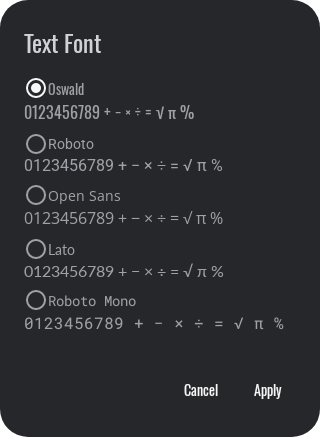
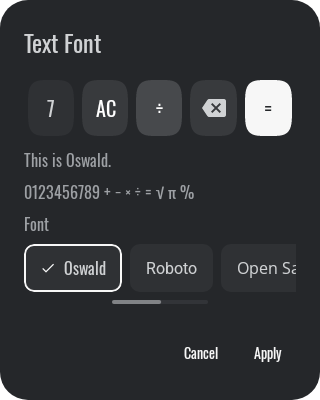
Add live font preview and horizontal font choices

diff --git a/app/src/test/java/net/smartlogic/unitconverter/theme/AppearanceUiTest.kt b/app/src/test/java/net/smartlogic/unitconverter/theme/AppearanceUiTest.kt
@@ -110,10 +110,7 @@ class AppearanceUiTest {
     }
     private fun assertSinglePreview(style: Appearance.Style, shape: Appearance.Shape) {
         compose.runOnIdle {
-            fun previews(v: android.view.View): List<KeypadPreviewView> =
-                if (v is KeypadPreviewView) listOf(v) else if (v is android.view.ViewGroup)
-                    (0 until v.childCount).flatMap { previews(v.getChildAt(it)) } else emptyList()
-            val preview = previews(ShadowDialog.getLatestDialog().window!!.decorView).single()
+            val preview = singlePreview()
             assertEquals(android.widget.LinearLayout.HORIZONTAL, preview.orientation)
             assertEquals(5, preview.childCount)
             for (i in 0 until preview.childCount) {
@@ -127,20 +124,20 @@ class AppearanceUiTest {
             assertEquals("=", (preview.getChildAt(4) as android.widget.TextView).text.toString())
         }
     }
-    @Test fun backAndOutsideTapDiscardDrafts() {
-        open("buttons")
-        tap(R.string.button_style_satin)
+    private fun singlePreview(): KeypadPreviewView {
+        fun previews(v: android.view.View): List<KeypadPreviewView> =
+            if (v is KeypadPreviewView) listOf(v) else if (v is android.view.ViewGroup)
+                (0 until v.childCount).flatMap { previews(v.getChildAt(it)) } else emptyList()
+        return previews(ShadowDialog.getLatestDialog().window!!.decorView).single()
+    }
+    private fun pressSystemBack() {
         compose.runOnIdle {
-            // Exercise Android's system Back dispatcher; injecting a key into Compose
-            // does not simulate the platform Back gesture on API 34.
             (ShadowDialog.getLatestDialog() as androidx.activity.ComponentDialog)
                 .onBackPressedDispatcher.onBackPressed()
         }
         compose.waitForIdle()
-        compose.onNodeWithText(app.getString(R.string.appearance_buttons)).assertDoesNotExist()
-        assertEquals(Appearance.Style.FLAT, Appearance.style(app))
-        open("buttons")
-        tap(R.string.button_style_bevel)
+    }
+    private fun tapOutsideDialog() {
         compose.runOnIdle {
             val window = ShadowDialog.getLatestDialog()
             val downTime = android.os.SystemClock.uptimeMillis()
@@ -150,6 +147,16 @@ class AppearanceUiTest {
             }
         }
         compose.waitForIdle()
+    }
+    @Test fun backAndOutsideTapDiscardDrafts() {
+        open("buttons")
+        tap(R.string.button_style_satin)
+        pressSystemBack()
+        compose.onNodeWithText(app.getString(R.string.appearance_buttons)).assertDoesNotExist()
+        assertEquals(Appearance.Style.FLAT, Appearance.style(app))
+        open("buttons")
+        tap(R.string.button_style_bevel)
+        tapOutsideDialog()
         compose.onNodeWithText(app.getString(R.string.appearance_buttons)).assertDoesNotExist()
         assertEquals(Appearance.Style.FLAT, Appearance.style(app))
         assertEquals(Appearance.Shape.ROUNDED, Appearance.shape(app))
@@ -199,13 +206,7 @@ class AppearanceUiTest {
             compose.onNodeWithText(app.getString(android.R.string.cancel)).assertIsDisplayed()
             assertSinglePreview(Appearance.Style.INSET, Appearance.Shape.CIRCLE)
             compose.runOnIdle {
-                val root = ShadowDialog.getLatestDialog().window!!.decorView
-                fun find(v: android.view.View): KeypadPreviewView? {
-                    if (v is KeypadPreviewView) return v
-                    if (v is android.view.ViewGroup) for (i in 0 until v.childCount) find(v.getChildAt(i))?.let { return it }
-                    return null
-                }
-                val preview = requireNotNull(find(root))
+                val preview = singlePreview()
                 for (i in 0 until preview.childCount) {
                     val key = preview.getChildAt(i)
                     if (key is android.widget.TextView) {
@@ -228,6 +229,89 @@ class AppearanceUiTest {
         compose.onNodeWithText("Roboto Mono").assertIsSelected()
         tap(android.R.string.cancel, false)
     }
+    private fun assertTextFamily(label: String, font: Appearance.Font) {
+        val node = compose.onNodeWithText(label)
+        val visibleHeight = node.fetchSemanticsNode().boundsInRoot.height
+        node.performSemanticsAction(androidx.compose.ui.semantics.SemanticsActions.GetTextLayoutResult) { action ->
+            val layouts = mutableListOf<androidx.compose.ui.text.TextLayoutResult>()
+            assertTrue(action(layouts))
+            assertEquals(appFontFamily(font), layouts.single().layoutInput.style.fontFamily)
+            assertTrue("Clipped text: $label", layouts.single().size.height <= visibleHeight + 1)
+        }
+    }
+    private fun assertFontPreview(font: Appearance.Font) {
+        val text = app.getString(R.string.appearance_font_preview_text, font.label)
+        compose.onNodeWithText(text).assertIsDisplayed()
+        assertTextFamily(text, font)
+        assertTextFamily(font.label, font)
+        assertSinglePreview(Appearance.style(app), Appearance.shape(app))
+        compose.runOnIdle {
+            val preview = singlePreview()
+            val expected = androidx.core.content.res.ResourcesCompat.getFont(renderContext, font.resource)
+            for (i in 0 until preview.childCount) {
+                val key = preview.getChildAt(i)
+                if (key is android.widget.TextView) {
+                    assertEquals(expected, key.typeface)
+                    assertFalse(key.typeface.isBold)
+                    assertTrue("$font clipped numeric preview", key.paint.measureText(key.text.toString()) <= key.width)
+                    assertTrue("$font clipped numeric height", key.layout.height <= key.height)
+                }
+            }
+        }
+    }
+    @Test fun fontNamesAndLiveTextAndKeysUseEachDraftFontWithoutSaving() {
+        compose.runOnIdle { Appearance.applyButtons(app, Appearance.Style.SATIN, Appearance.Shape.CIRCLE) }
+        open("fonts")
+        for (font in Appearance.Font.entries) {
+            tapText(font.label)
+            compose.onNodeWithText(font.label).assertIsSelected()
+            assertFontPreview(font)
+            assertEquals(Appearance.Font.OSWALD, Appearance.font(app))
+        }
+        tapText("Oswald")
+        compose.onNodeWithText("Roboto Mono").performScrollTo()
+        assertTextFamily("Roboto Mono", Appearance.Font.ROBOTO_MONO)
+        tap(android.R.string.cancel, false)
+        assertEquals(Appearance.Font.OSWALD, Appearance.font(app))
+        assertEquals(Appearance.Style.SATIN, Appearance.style(app))
+        assertEquals(Appearance.Shape.CIRCLE, Appearance.shape(app))
+    }
+    @Test fun fontDraftRestoresAndBackAndOutsideTapDiscardIt() {
+        open("fonts"); tapText("Lato")
+        restoration.emulateSavedInstanceStateRestore(); compose.waitForIdle()
+        compose.onNodeWithText("Lato").assertIsSelected().assertIsDisplayed()
+        assertFontPreview(Appearance.Font.LATO)
+        assertEquals(Appearance.Font.OSWALD, Appearance.font(app))
+        pressSystemBack()
+        compose.onNodeWithText(app.getString(R.string.appearance_font)).assertDoesNotExist()
+        open("fonts"); tapText("Roboto")
+        assertFontPreview(Appearance.Font.ROBOTO)
+        tapOutsideDialog()
+        compose.onNodeWithText(app.getString(R.string.appearance_font)).assertDoesNotExist()
+        assertEquals(Appearance.Font.OSWALD, Appearance.font(app))
+    }
+    @Test fun fontPreviewAndActionsFitAtDoubleTextInBothDirections() {
+        for (layoutDirection in listOf(LayoutDirection.Ltr, LayoutDirection.Rtl)) {
+            compose.runOnIdle {
+                direction = layoutDirection
+                val config = android.content.res.Configuration(renderContext.resources.configuration).apply { fontScale = 2f }
+                @Suppress("DEPRECATION")
+                renderContext.resources.updateConfiguration(config, renderContext.resources.displayMetrics)
+                scale = 2f
+                Appearance.applyFont(app, Appearance.Font.ROBOTO_MONO)
+            }
+            open("fonts")
+            compose.onNodeWithText("Roboto Mono").assertIsSelected().assertIsDisplayed()
+            for (font in Appearance.Font.entries) {
+                tapText(font.label)
+                assertFontPreview(font)
+                compose.onNodeWithText(app.getString(R.string.appearance_apply)).assertIsDisplayed()
+                compose.onNodeWithText(app.getString(android.R.string.cancel)).assertIsDisplayed()
+            }
+            tap(android.R.string.cancel, false)
+            assertEquals(Appearance.Font.ROBOTO_MONO, Appearance.font(app))
+        }
+    }
     @Test fun nativeReviewScreenshotsInLightDarkAndLargeText() {
         for (theme in listOf(CalculatorThemes.PORCELAIN_WHITE, CalculatorThemes.GRAPHITE_BLACK)) {
             compose.runOnIdle { ThemeManager.select(app, theme.id()) }
@@ -248,6 +332,9 @@ class AppearanceUiTest {
                 tap(android.R.string.cancel, false)
                 open("fonts")
                 screenshot("fonts-${theme.id()}-320-$fontScale")
+                tapText("Roboto Mono")
+                screenshot("fonts-live-${theme.id()}-320-$fontScale")
+                assertEquals(Appearance.Font.OSWALD, Appearance.font(app))
                 tap(android.R.string.cancel, false)
             }
         }

diff --git a/app/src/main/java/net/smartlogic/unitconverter/theme/AppearanceDialogs.kt b/app/src/main/java/net/smartlogic/unitconverter/theme/AppearanceDialogs.kt
@@ -30,7 +30,6 @@ import androidx.compose.ui.res.dimensionResource
 import androidx.compose.ui.res.stringResource
 import androidx.compose.ui.res.painterResource
 import androidx.compose.ui.semantics.Role
-import androidx.compose.ui.text.font.Font
 import androidx.compose.ui.text.font.FontFamily
 import androidx.compose.ui.viewinterop.AndroidView
 import androidx.core.content.res.ResourcesCompat
@@ -57,8 +56,8 @@ fun ButtonsDialog(onDismiss: () -> Unit) {
                     Text(stringResource(R.string.appearance_style), style = MaterialTheme.typography.titleMedium,
                         modifier = Modifier.padding(vertical = spacing.sm))
                     AppearanceChoiceStrip(
-                        Appearance.Style.entries.map { it.name to it.label }, styleName,
-                        onSelect = { styleName = it },
+                        Appearance.Style.entries, style,
+                        onSelect = { styleName = it.name }, label = { stringResource(it.label) },
                     )
                     Text(stringResource(R.string.appearance_shape), style = MaterialTheme.typography.titleMedium,
                         modifier = Modifier.padding(vertical = spacing.sm))
@@ -66,8 +65,8 @@ fun ButtonsDialog(onDismiss: () -> Unit) {
                     if (!enabled) Text(stringResource(R.string.appearance_flat_shape),
                         style = MaterialTheme.typography.bodyMedium)
                     AppearanceChoiceStrip(
-                        Appearance.Shape.entries.map { it.name to it.label }, shapeName, enabled,
-                        onSelect = { shapeName = it },
+                        Appearance.Shape.entries, shape, enabled,
+                        onSelect = { shapeName = it.name }, label = { stringResource(it.label) },
                     )
                 }
             }
@@ -82,10 +81,11 @@ fun ButtonsDialog(onDismiss: () -> Unit) {
     )
 }
 
-/** A shared, single-choice horizontal strip; the only keypad preview lives above both strips. */
+/** Shared single-choice horizontal strip for styles, shapes and font names. */
 @Composable
-private fun AppearanceChoiceStrip(options: List<Pair<String, Int>>, selected: String,
-    enabled: Boolean = true, onSelect: (String) -> Unit) {
+private fun <T> AppearanceChoiceStrip(options: List<T>, selected: T,
+    enabled: Boolean = true, onSelect: (T) -> Unit, label: @Composable (T) -> String,
+    fontFamily: (T) -> FontFamily? = { null }) {
     val spacing = GraphyThemeTokens.spacing
     val scroll = rememberScrollState()
     val colors = MaterialTheme.colorScheme
@@ -96,8 +96,8 @@ private fun AppearanceChoiceStrip(options: List<Pair<String, Int>>, selected: St
     Column(horizontalAlignment = Alignment.CenterHorizontally) {
         Row(Modifier.fillMaxWidth().horizontalScroll(scroll).selectableGroup(),
             horizontalArrangement = Arrangement.spacedBy(spacing.sm)) {
-            options.forEach { (id, label) ->
-                val isSelected = selected == id
+            options.forEach { option ->
+                val isSelected = selected == option
                 val bringIntoView = remember { BringIntoViewRequester() }
                 LaunchedEffect(isSelected) {
                     if (isSelected) {
@@ -110,14 +110,15 @@ private fun AppearanceChoiceStrip(options: List<Pair<String, Int>>, selected: St
                     .clip(shape).background(fill)
                     .border(outline, if (isSelected) colors.primary else Color.Transparent, shape)
                     .selectable(isSelected, enabled = enabled, role = Role.RadioButton,
-                        onClick = { onSelect(id) })
+                        onClick = { onSelect(option) })
                     .padding(horizontal = spacing.md, vertical = spacing.sm),
                     horizontalArrangement = Arrangement.spacedBy(spacing.sm),
                     verticalAlignment = Alignment.CenterVertically) {
                     if (isSelected) Icon(painterResource(R.drawable.ic_theme_check), null,
                         Modifier.size(dimensionResource(R.dimen.converter_chevron_size)),
                         tint = if (enabled) colors.primary else colors.onSurfaceVariant)
-                    Text(stringResource(label), maxLines = 1, style = MaterialTheme.typography.bodyLarge,
+                    Text(label(option), maxLines = 1, style = MaterialTheme.typography.bodyLarge,
+                        fontFamily = fontFamily(option),
                         color = if (enabled) colors.onSurface else colors.onSurfaceVariant)
                 }
             }
@@ -141,9 +142,9 @@ private fun AppearanceChoiceStrip(options: List<Pair<String, Int>>, selected: St
 
 /** Native renderer shared with actual keypads: includes the accent-filled Equal exception. */
 @Composable
-internal fun KeypadPreview(style: Appearance.Style, shape: Appearance.Shape) {
+internal fun KeypadPreview(style: Appearance.Style, shape: Appearance.Shape,
+    font: Appearance.Font = Appearance.font(LocalContext.current)) {
     val theme = net.smartlogic.unitconverter.graphy.compose.theme.LocalCalculatorTheme.current
-    val font = Appearance.font(LocalContext.current)
     val context = LocalContext.current
     val density = androidx.compose.ui.platform.LocalDensity.current
     val gap = dimensionResource(R.dimen.appearance_key_gap)
@@ -164,28 +165,30 @@ internal fun KeypadPreview(style: Appearance.Style, shape: Appearance.Shape) {
 fun TextFontDialog(onDismiss: () -> Unit) {
     val context = LocalContext.current
     var draft by rememberSaveable { mutableStateOf(Appearance.font(context).name) }
+    val font = Appearance.Font.valueOf(draft)
+    val family = appFontFamily(font)
     val spacing = GraphyThemeTokens.spacing
     AlertDialog(onDismissRequest = onDismiss,
         title = { Text(stringResource(R.string.appearance_font)) },
         text = {
-            Column(Modifier.heightIn(max = dimensionResource(R.dimen.settings_dialog_max_height))
-                .verticalScroll(rememberScrollState()).selectableGroup()) {
-                Appearance.Font.entries.forEach { font ->
-                    Column(Modifier.fillMaxWidth().selectable(draft == font.name,
-                        role = Role.RadioButton, onClick = { draft = font.name })
-                        .padding(bottom = spacing.sm)) {
-                        Row(verticalAlignment = Alignment.CenterVertically) {
-                            RadioButton(draft == font.name, onClick = null)
-                            Text(font.label, fontFamily = FontFamily(Font(font.resource)))
-                        }
-                        Text(stringResource(R.string.appearance_font_sample),
-                            fontFamily = FontFamily(Font(font.resource)), style = MaterialTheme.typography.bodyLarge)
-                    }
+            Column(Modifier.heightIn(max = dimensionResource(R.dimen.settings_dialog_max_height))) {
+                KeypadPreview(Appearance.style(context), Appearance.shape(context), font)
+                Text(stringResource(R.string.appearance_font_preview_text, font.label),
+                    fontFamily = family, style = MaterialTheme.typography.bodyLarge,
+                    modifier = Modifier.padding(vertical = spacing.sm))
+                Column(Modifier.weight(1f, fill = false).verticalScroll(rememberScrollState())) {
+                    Text(stringResource(R.string.appearance_font_sample),
+                        fontFamily = family, style = MaterialTheme.typography.bodyLarge)
+                    Text(stringResource(R.string.appearance_font_choice),
+                        style = MaterialTheme.typography.titleMedium,
+                        modifier = Modifier.padding(vertical = spacing.sm))
+                    AppearanceChoiceStrip(Appearance.Font.entries, font,
+                        onSelect = { draft = it.name }, label = { it.label }, fontFamily = ::appFontFamily)
                 }
             }
         },
         confirmButton = { TextButton(onClick = {
-            Appearance.applyFont(context, Appearance.Font.valueOf(draft)); onDismiss()
+            Appearance.applyFont(context, font); onDismiss()
         }) { Text(stringResource(R.string.appearance_apply)) } },
         dismissButton = { TextButton(onClick = onDismiss) { Text(stringResource(android.R.string.cancel)) } })
 }

diff --git a/docs/APPEARANCE_REVIEW.md b/docs/APPEARANCE_REVIEW.md
@@ -15,9 +15,11 @@ physical-device screenshots.
 | All eight styles and four shapes | [Light](appearance-review/styles-shapes-light.png) | [Dark](appearance-review/styles-shapes-dark.png) |
 | Shape selection in popup | [Light](appearance-review/shapes-light.png) | [Dark](appearance-review/shapes-dark.png) |
 | Text Font selection | [Light](appearance-review/fonts-light.png) | [Dark](appearance-review/fonts-dark.png) |
+| Text Font live draft (Roboto Mono) | [Light](appearance-review/fonts-live-light.png) | [Dark](appearance-review/fonts-live-dark.png) |
 | Equal and BMI Done across all styles | [Light](appearance-review/equal-bmi-light.png) | [Dark](appearance-review/equal-bmi-dark.png) |
 
-Additional constrained-screen capture: [320dp at 2× text](appearance-review/buttons-large-text.png).
+Additional constrained-screen captures: [Buttons at 2× text](appearance-review/buttons-large-text.png)
+and [Text Font live preview at 2× text](appearance-review/fonts-large-text.png).
 
 The Buttons popup now uses exactly one five-key live preview row. Style and shape
 choices are separate horizontal strips with selected checkmarks, outlines and
@@ -25,11 +27,25 @@ scroll indicators. Both selectors update the same preview without saving until
 Apply; Flat still disables shape choices and remembers the last shape.
 The comparison sheets are review-only, not additional previews in the popup.
 
+The Text Font dialog now follows the same pattern: one live row of keys, a
+“This is <font name>” sentence, a mathematical sample and one horizontal selector.
+Names in the selector each use their own font; only the preview text and key
+labels change while editing. The applied theme, button style and shape stay in
+place, and the font is saved only on Apply.
+
 The style sheets use Rounded for comparisons and include a separate four-shape
 section. Equal remains accent-filled in every style; the Equal/BMI sheets use
 Circle to demonstrate the remembered shape in Flat.
 
 ## Validation scope
+
+Font-dialog follow-up (2026-10-31): **55 targeted tests passed, zero failures**.
+Debug assembly succeeded; Android lint reported **0 errors, 406 warnings**.
+New UI checks confirm every font name uses its own family, each draft updates
+both the sample and native key labels without saving, restored font drafts retain
+their selection, Back/outside dismissal discard changes, and all fonts fit the
+live preview with Apply/Cancel visible at 2× text in LTR and RTL. The existing
+Buttons dialog, theme access, calculation accuracy and BMI checks also pass.
 
 Latest revalidation (2026-10-30): **52 targeted tests passed, zero failures**.
 Debug assembly succeeded and lint completed with **0 errors, 406 warnings**.

diff --git a/docs/APPEARANCE.md b/docs/APPEARANCE.md
@@ -17,6 +17,13 @@ bring the selected choice into view and update that single preview immediately.
 Flat disables shape choices while preserving the remembered shape. Only the
 popup may scroll vertically in constrained windows; tool layouts are unchanged.
 
+Text Font uses the same preview row and horizontal selector. Each choice's name
+uses its own regular font. Selecting a choice updates the native key labels,
+“This is <font name>” text and mathematical sample together, without writing the
+font preference. The preview retains the applied button style, remembered shape
+and theme. Apply saves the selected font; Cancel, Back and outside taps discard
+the draft. Drafts survive saved-state restoration like the Buttons dialog.
+
 `KeyAppearanceDrawable` is shared by real numeric keys, Equal, BMI Done and the
 native Views inside Compose previews. Shapes fit within each existing key's touch
 bounds; Circle uses the smaller dimension for its diameter. Style spacing stays

diff --git a/docs/SETTINGS.md b/docs/SETTINGS.md
@@ -12,3 +12,8 @@
 - Theme access, migration and reward persistence: see [THEME.md](THEME.md#theme-preferences-and-access). The three permanent free themes never expire. Required ad privacy choices are available in Preferences as well as the main overflow menu.
 
 - Appearance drafts, shared renderers, defaults and review captures: see [APPEARANCE.md](APPEARANCE.md). Reset affects only button style/remembered shape/font; Theme and Number format retain their existing behavior.
+
+- Text Font now mirrors Buttons: one live keypad row, a “This is <font name>”
+  sample and a horizontal selector with each font name in its own font. All
+  preview changes stay local until Apply; cancellation and dismissal preserve the
+  applied font. Both dialogs share the selector and native preview component.
